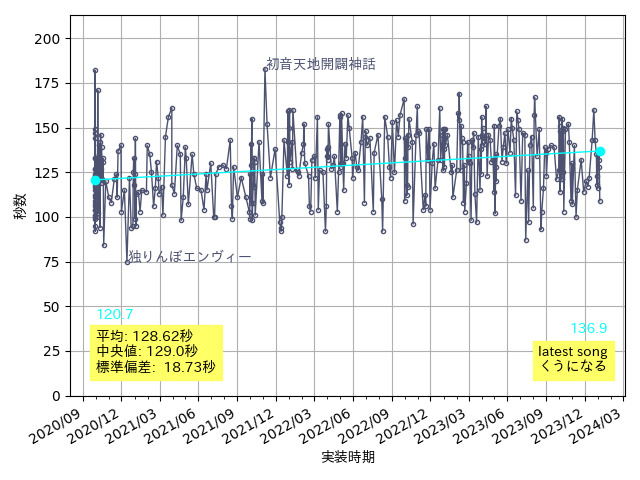
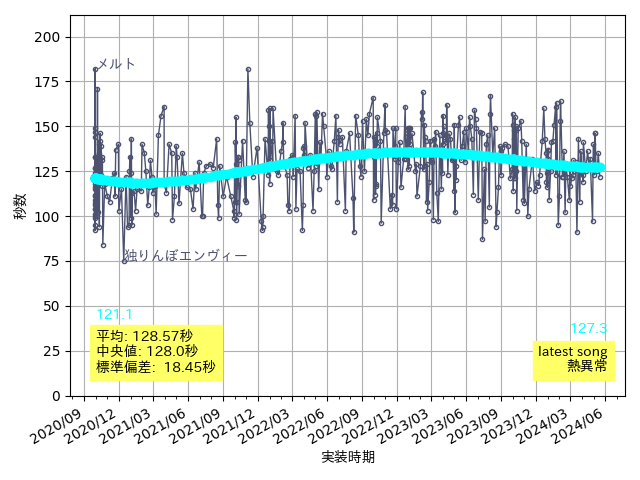
song length chart approximate update

diff --git a/scripts/make_song_length.py b/scripts/make_song_length.py
@@ -75,14 +75,21 @@ for chart_type in ['all', 'latest_month']:
 
     f_seconds = list(map(str_to_seconds, f_lines))
 
-    # 近似式
-    trends = np.poly1d(np.polyfit(f_timestamp_nums, f_seconds, 1))(
-        f_timestamp_nums)
 
     plt.plot(f_timestamps, f_seconds, color='#4C5270', fillstyle='none', marker='o',
              linewidth=1, markersize=3)
-    plt.plot([f_timestamps[0], f_timestamps[-1]], [trends[0],
-             trends[-1]], color="cyan", marker='o', linewidth=1)
+    if chart_type == "latest_month":
+        # 近似式
+        trends = np.poly1d(np.polyfit(f_timestamp_nums, f_seconds, 1))(
+            f_timestamp_nums)
+        plt.plot([f_timestamps[0], f_timestamps[-1]], [trends[0],
+                trends[-1]], color="cyan", marker='o', linewidth=1)
+    
+    if chart_type == "all":
+        # 近似式
+        poly_func = np.polynomial.Polynomial.fit(f_timestamp_nums, f_seconds, deg=6)
+        trends = poly_func(np.array(f_timestamp_nums))    
+        plt.plot(f_timestamps, trends, color="cyan", marker='o', linewidth=1)
 
     if chart_type == 'all':
         plt.gca().xaxis.set_major_locator(mdates.MonthLocator(bymonth=(3, 6, 9, 12)))
@@ -94,6 +101,7 @@ for chart_type in ['all', 'latest_month']:
         plt.gca().xaxis.set_major_formatter(mdates.DateFormatter('%m/%d'))
 
     plt.gca().set_ylim(0, max(f_seconds) + 30)
+    # plt.gca().set_ylim(min(trends), max(trends))
     plt.gca().set_xlabel("実装時期", fontname="IPAexGothic")
     plt.gca().set_ylabel("秒数", fontname="IPAexGothic")
     plt.gca().grid(True)
